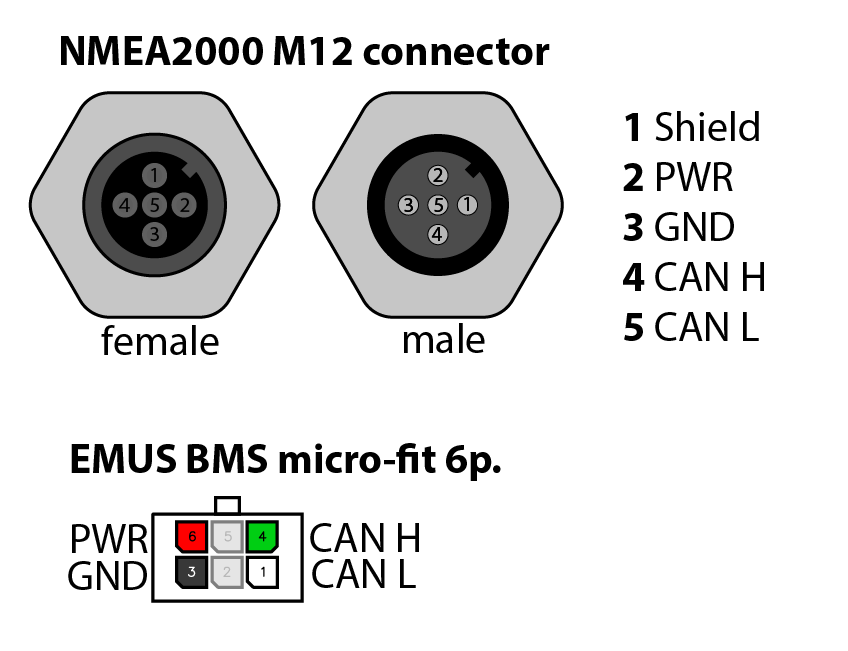
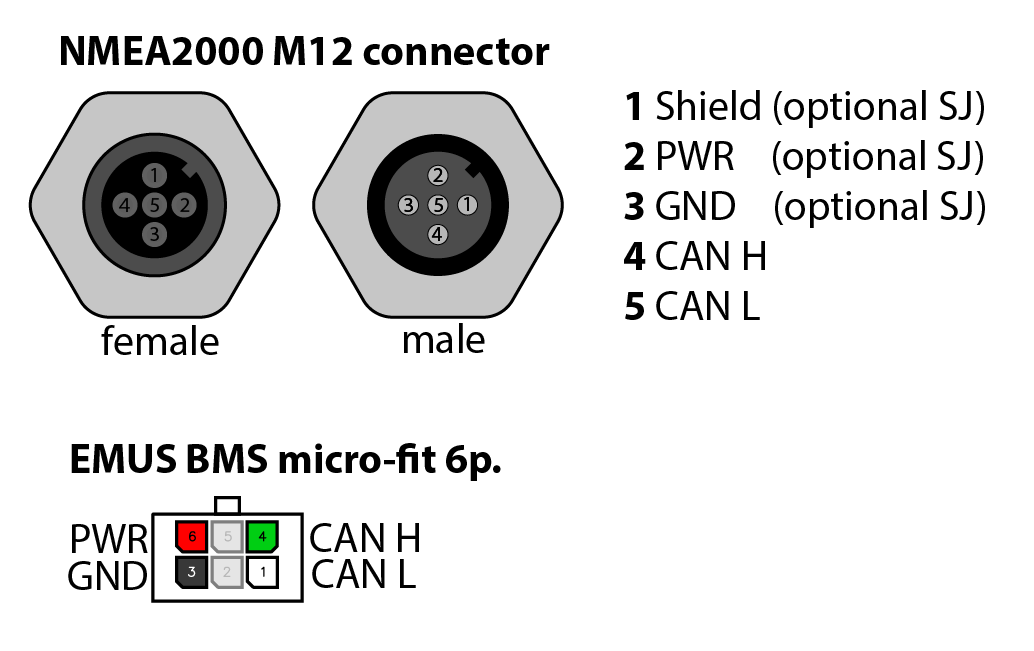
pinout

Changed region(s): [[0.0307, 0.0307, 0.9505, 0.553], [0.0613, 0.6759, 0.5825, 0.9524]]

diff --git a/README.md b/README.md
@@ -24,4 +24,6 @@ But hardware can be used for many CAN gateway or CAN isolation applications.
 
 ## pinout
 <img src="images/STM32_CAN_gateway_pinout.png" width="600" alt="EMUS BMS micro-fit 6p connector | NMEA2000 M12 connector"/>
+- EMUS BMS micro-fit 6p. connector (CAN1 & power input)
+- NMEA2000 M12 5p. connector (isolated CAN2 & optional power output)
 
